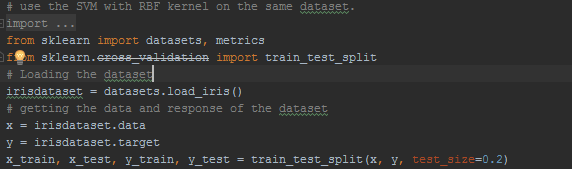
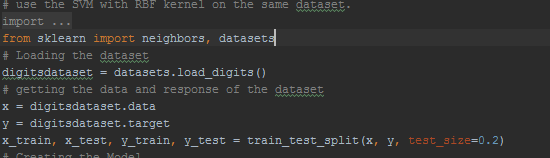
lab2

Changed region(s): [[0.0, 0.2025, 0.9273, 1.0], [0.0, 0.0, 0.6491, 0.1013], [0.0, 0.1013, 0.1236, 0.1772]]

diff --git a/Lab2/source/SVMPloy4.py b/Lab2/source/SVMPloy4.py
@@ -3,11 +3,12 @@ from sklearn.svm import SVC
 from sklearn import datasets
 from sklearn import datasets, metrics
 from sklearn.cross_validation import train_test_split
+from sklearn import neighbors, datasets
 # Loading the dataset
-irisdataset = datasets.load_iris()
+digitsdataset = datasets.load_digits()
 # getting the data and response of the dataset
-x = irisdataset.data
-y = irisdataset.target
+x = digitsdataset.data
+y = digitsdataset.target
 x_train, x_test, y_train, y_test = train_test_split(x, y, test_size=0.2)
 # Creating the Model
 model = SVC(kernel="poly", degree=4, C=1, gamma=0.1)

diff --git a/Lab2/source/SVMRBFKernal.py b/Lab2/source/SVMRBFKernal.py
@@ -3,11 +3,12 @@ from sklearn.svm import SVC
 from sklearn import datasets
 from sklearn import datasets, metrics
 from sklearn.cross_validation import train_test_split
+from sklearn import neighbors, datasets
 # Loading the dataset
-irisdataset = datasets.load_iris()
+digitsdataset = datasets.load_digits()
 # getting the data and response of the dataset
-x = irisdataset.data
-y = irisdataset.target
+x = digitsdataset.data
+y = digitsdataset.target
 x_train, x_test, y_train, y_test = train_test_split(x, y, test_size=0.2)
 # Creating the Model
 model = SVC(kernel='rbf', C=1, gamma=0.1)

diff --git a/Lab2/source/KNearestNeighbourProblem4.py b/Lab2/source/KNearestNeighbourProblem4.py
@@ -2,9 +2,9 @@ from sklearn import neighbors, datasets
 from sklearn import model_selection, metrics
 from sklearn.cross_validation import train_test_split
 #  now load the dataset
-irisdataset = datasets.load_iris()
-x = irisdataset.data
-y = irisdataset.target
+digitsdataset = datasets.load_digits()
+x = digitsdataset.data
+y = digitsdataset.target
 # train and test of data
 x_train, x_test, y_train, y_test = model_selection.train_test_split(x, y, random_state=22, test_size=0.2)
 # for k=1 neighbors
